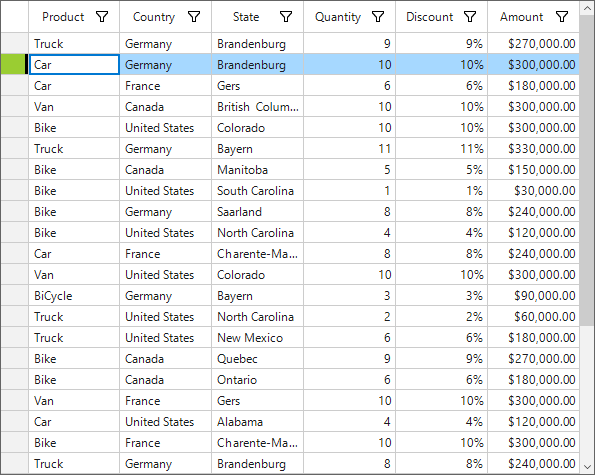
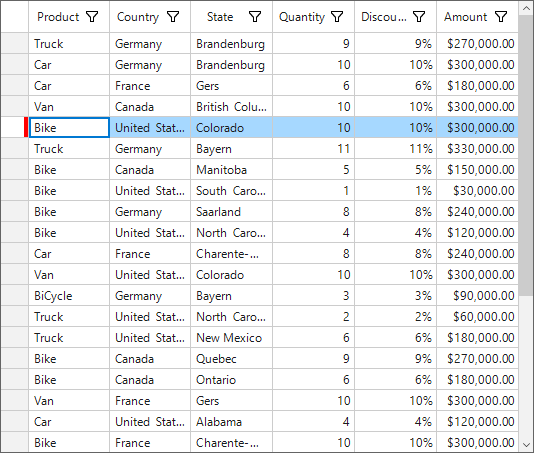
WF-47688-Prepare the UG documentation for AddNewRowText, SummaryCalculationMode, AutoFitGroupDropAreaItem and Search foreground color

diff --git a/WindowsForms/SfDataGrid/Rows.md b/WindowsForms/SfDataGrid/Rows.md
@@ -39,31 +39,23 @@ Me.sfDataGrid1.Style.RowHeaderStyle.BackColor = Color.CadetBlue
 
 ![Row header appearance customization in windows form datagrid](Rows_images/img2.png)
 
-### SelectionMarker customization
-Appearance of a selection row header can be customized by using the RowHeaderStyle property.
+### Selection marker customization
+Appearance of the selection marker can be customized using selection marker properties in RowHeaderStyle.
 
 {% tabs %}
 {% highlight c# %}
-this.sfDataGrid.Style.RowHeaderStyle.SelectionMarkerThickness = 15;
-this.sfDataGrid.Style.RowHeaderStyle.SelectionMarkerColor =  Color.Black;
+this.sfDataGrid.Style.RowHeaderStyle.SelectionMarkerThickness = 4;
+this.sfDataGrid.Style.RowHeaderStyle.SelectionMarkerColor = Color.Red;
+this.sfDataGrid.Style.RowHeaderStyle.SelectionBackColor = Color.White;
 {% endhighlight %}
 {% highlight vb %}
-Me.sfDataGrid.Style.RowHeaderStyle.SelectionMarkerThickness = 15
-Me.sfDataGrid.Style.RowHeaderStyle.SelectionMarkerColor = Color.Black
+Me.sfDataGrid.Style.RowHeaderStyle.SelectionMarkerThickness = 4
+Me.sfDataGrid.Style.RowHeaderStyle.SelectionMarkerColor = Color.Red
+Me.sfDataGrid.Style.RowHeaderStyle.SelectionBackColor = Color.White
 {% endhighlight %}
 {% endtabs %}
 
 ![Row header appearance customization in windows form datagrid](Rows_images/img10.png)
-{% tabs %}
-{% highlight c# %}
-this.sfDataGrid.Style.RowHeaderStyle.SelectionBackColor =Color.YellowGreen;
-{% endhighlight %}
-{% highlight vb %}
-Me.sfDataGrid.Style.RowHeaderStyle.SelectionBackColor =Color.YellowGreen
-{% endhighlight %}
-{% endtabs %}
-
-![Row header appearance customization in windows form datagrid](Rows_images/img11.png)
 
 ### Row Indicators and its Description
 

diff --git a/WindowsForms/SfDataGrid/DataManipulation.md b/WindowsForms/SfDataGrid/DataManipulation.md
@@ -4,6 +4,7 @@ title: DataManipulation | DataGrid | WinForms | Syncfusion
 description: This section explains about the data manipulation support in SfDataGrid.
 platform: windowsforms
 control: SfDataGrid
+documentation: ug
 
 ---
 
